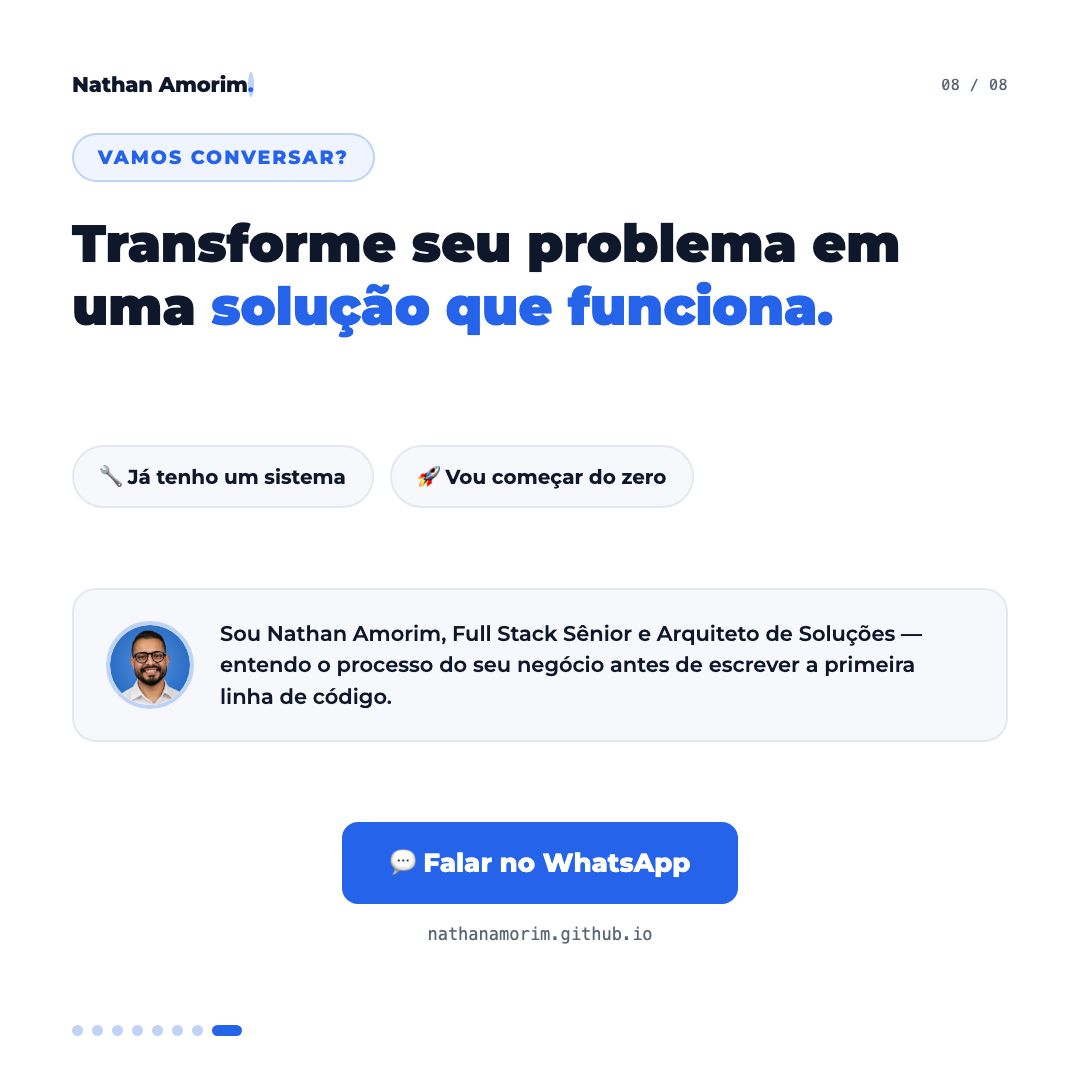
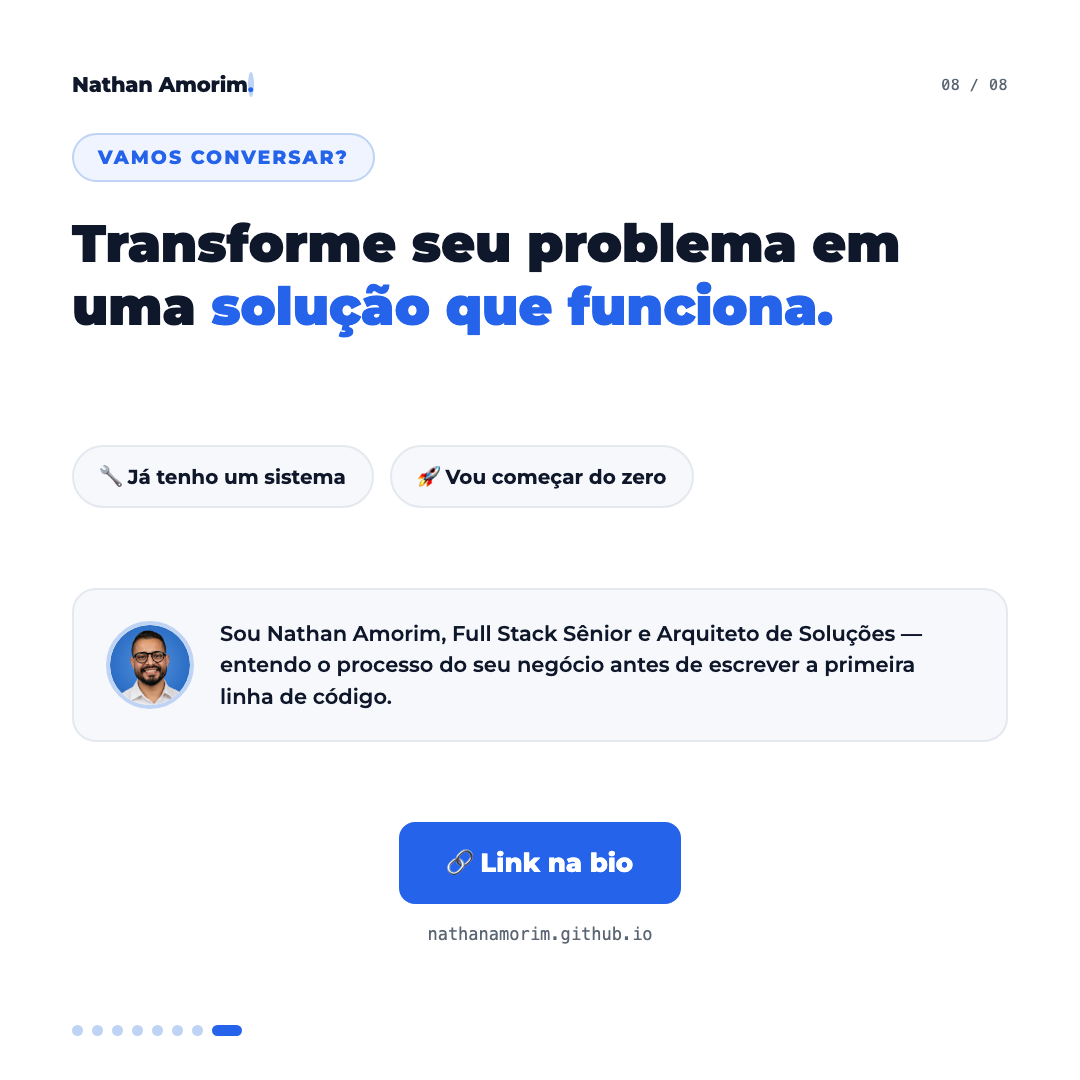
feat: CTA do slide 8 do carrossel vira "link na bio" + legenda do post
Instagram/LinkedIn não permitem link clicável na legenda, então o CTA
do último slide troca de "Falar no WhatsApp" para "Link na bio".

Changed region(s): [[0.3056, 0.7639, 0.7028, 0.8556]]

diff --git a/sdd/marketing/social/carrossel-01-saas-proprio/legenda.md b/sdd/marketing/social/carrossel-01-saas-proprio/legenda.md
@@ -1,0 +1,11 @@
+Sua empresa quer ter o próprio sistema? Faça isso sem pagar caro depois. 👆
+
+Cada vez mais empresas estão trocando a mensalidade de sistema de terceiro por ter o próprio sistema — e hoje isso ficou mais fácil, com IA ajudando a construir.
+
+O problema é que isso só funciona bem se começar do jeito certo, pensando em quem vai cuidar desse sistema amanhã. Sem isso, o problema não aparece logo de cara. Aparece depois, com tudo já em uso — e aí consertar pode custar até 5 vezes mais.
+
+Eu ajudo tanto quem já tem um sistema e quer evoluir, quanto quem vai começar agora do zero. 🔧🚀
+
+💬 Link na bio pra falar comigo.
+
+#DesenvolvimentoDeSoftware #ArquiteturaDeSoftware #SaaS #TechLead #ConsultoriaDeSoftware #TransformacaoDigital

diff --git a/sdd/marketing/social/carrossel-01-saas-proprio/README.md b/sdd/marketing/social/carrossel-01-saas-proprio/README.md
@@ -35,3 +35,8 @@ logotipo em SVG no projeto — a identidade usa o wordmark em texto
 
 Não existe ainda cronograma de publicação no projeto, então os arquivos
 não seguem numeração de calendário — apenas a ordem do carrossel.
+
+## Legenda
+`legenda.md` — texto pronto pra publicar junto com o carrossel, com CTA
+"link na bio" (em vez do link direto do WhatsApp, já que Instagram/LinkedIn
+não permitem link clicável na legenda).
